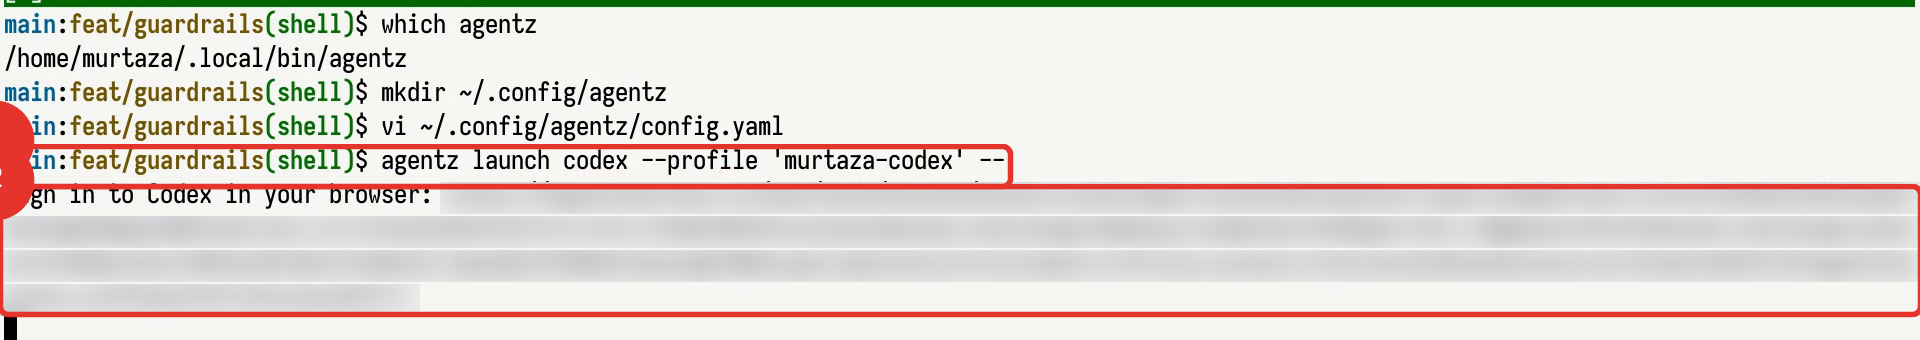
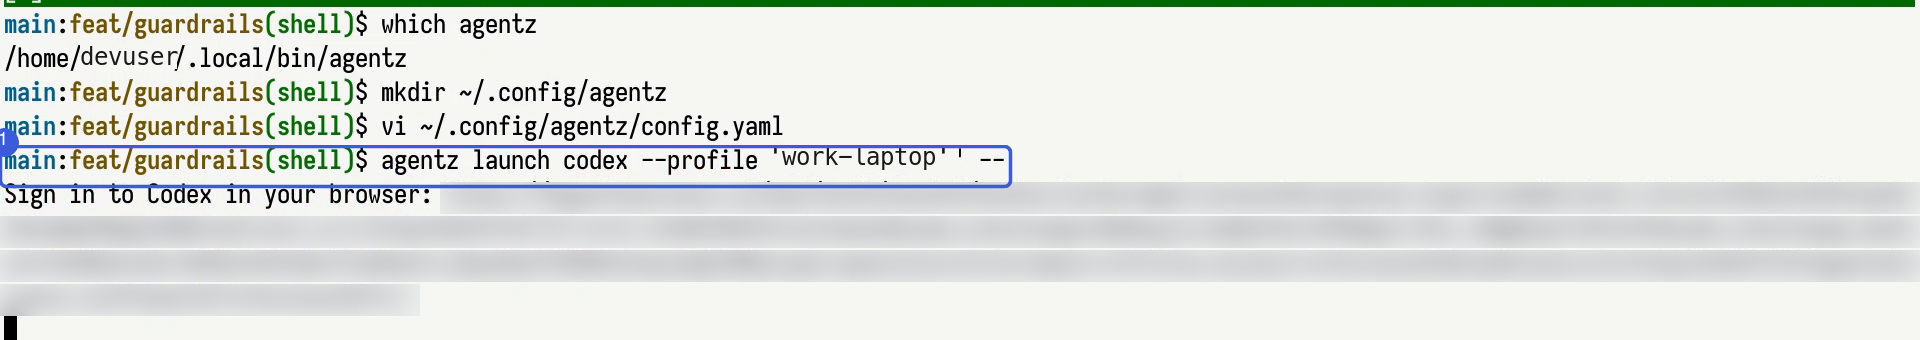
Lighten screenshot annotations and replace usernames in Agent Identities guide

Changed region(s): [[0.0, 0.2941, 1.0, 0.6471], [0.0, 0.9118, 1.0, 0.9412], [0.0312, 0.1471, 0.0938, 0.2059]]

diff --git a/docs/how-to/agent-identities.md b/docs/how-to/agent-identities.md
@@ -107,7 +107,7 @@ agentz launch codex --profile '<agent-name>' --
 
 For Claude Code, run the command shown in your **Setup** tab.
 
-![Terminal after the launch command with the sign-in line marked and the link hidden](images/agent-identities/06-launch.png)
+![Terminal after the launch command, with the launch command marked and the sign-in link hidden](images/agent-identities/06-launch.png)
 
 The terminal prints a sign-in link. Open it in your browser.
 
@@ -131,7 +131,7 @@ The agent starts on its default model. To use a model you approved:
 
 Codex confirms the change, and the status line shows the new model.
 
-![Codex confirming the model change, with the status line marked](images/agent-identities/09-model-changed.png)
+![Codex confirming the model change](images/agent-identities/09-model-changed.png)
 
 ## Add MCP Tools (Optional)
 
